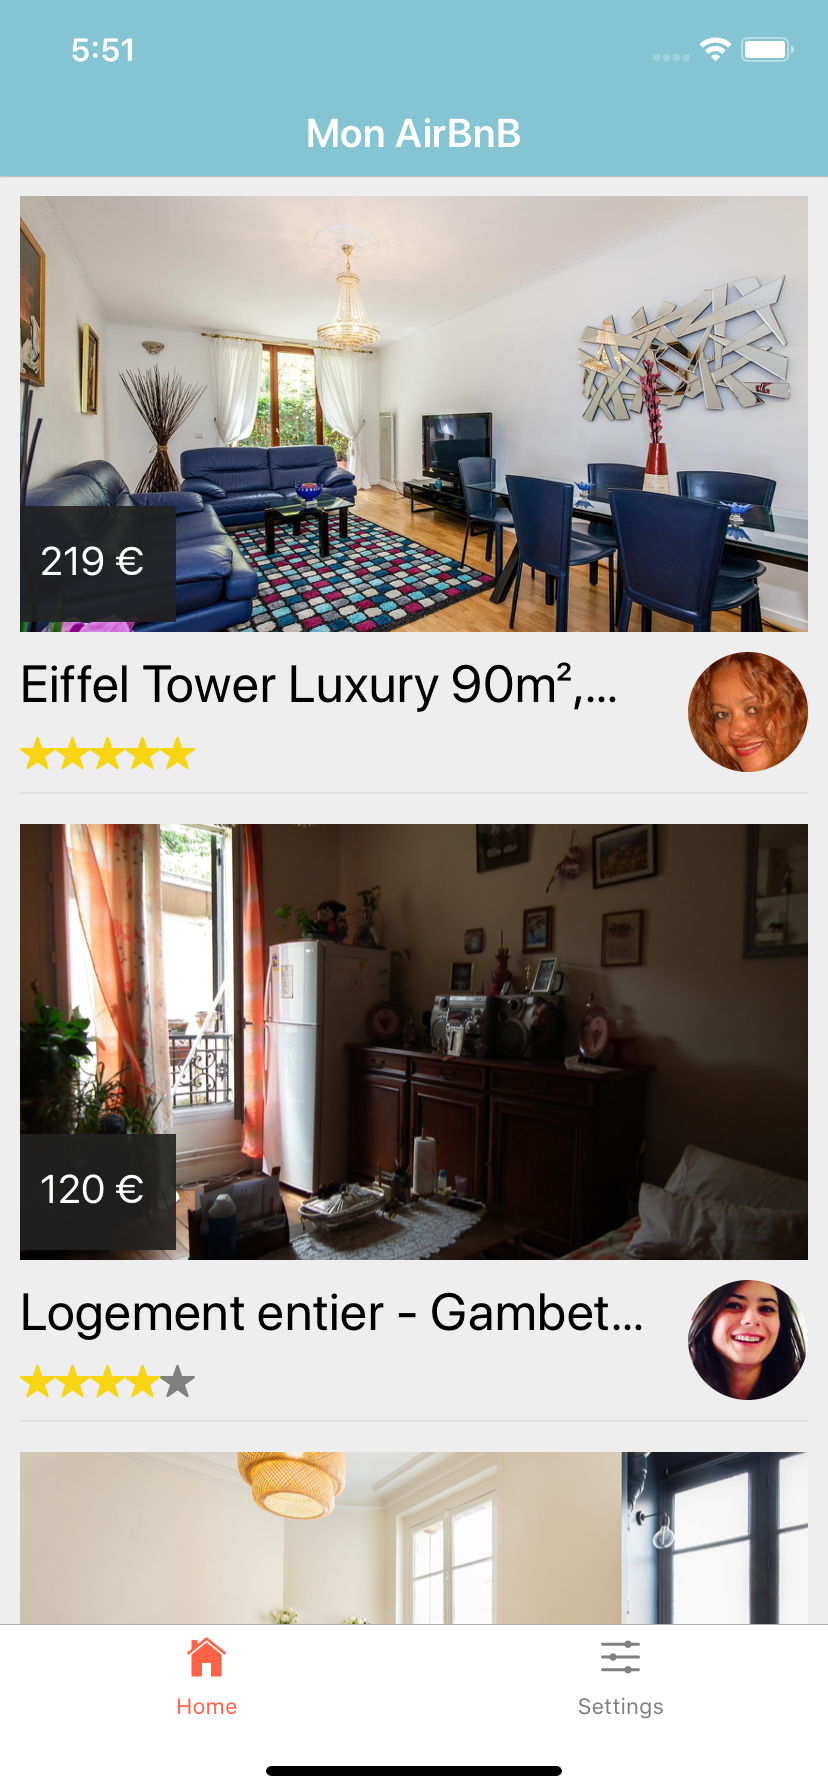
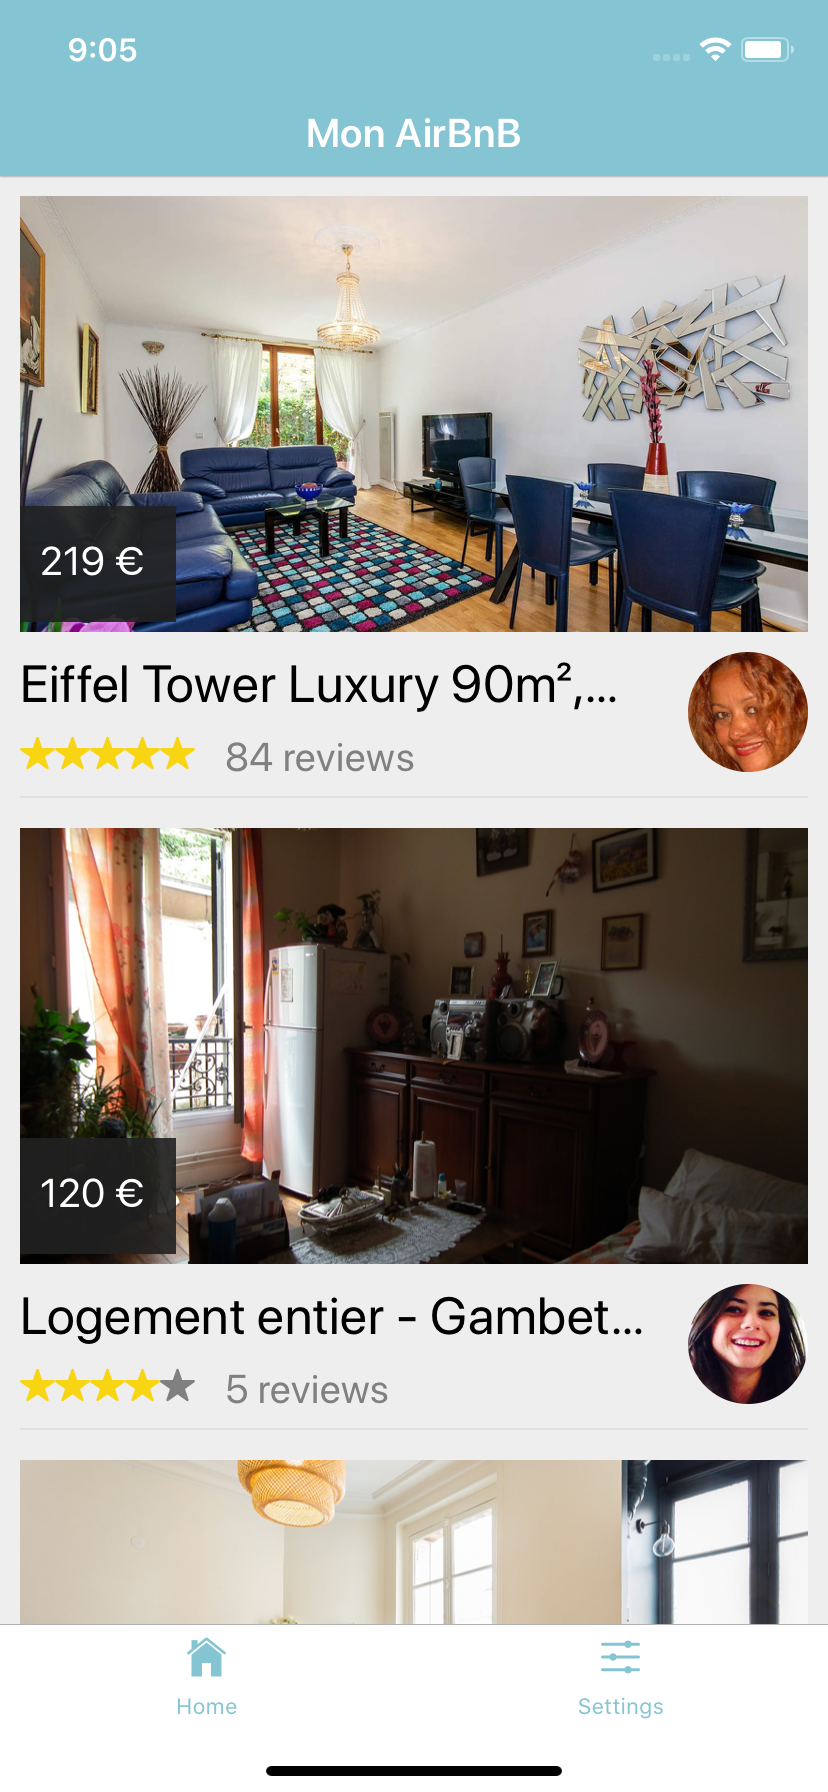
room page

diff --git a/containers/ListScreen.js b/containers/ListScreen.js
@@ -1,6 +1,6 @@
 import React, { useState, useEffect } from "react";
 import { useNavigation } from "@react-navigation/core";
-import { Button, Text, View, Image, StyleSheet } from "react-native";
+import { TouchableOpacity, Text, View, Image, StyleSheet } from "react-native";
 import { FlatList } from "react-native-gesture-handler";
 import axios from "axios";
 import { Ionicons } from "@expo/vector-icons";
@@ -22,6 +22,7 @@ export default function ListScreen() {
   useEffect(() => {
     fetchingData();
   }, []);
+
   return (
     <View>
       <FlatList
@@ -29,78 +30,84 @@ export default function ListScreen() {
         keyExtractor={item => String(item._id)}
         renderItem={({ item }) => (
           <View>
-            <View>
-              <Image
-                source={{ uri: item.photos[0] }}
-                style={styles.imageContainer}
-              />
-              <View style={styles.price}>
-                <Text
-                  style={{
-                    color: "white",
-                    fontSize: 20,
-                    paddingLeft: 10,
-                    paddingTop: 15
-                  }}
-                >
-                  {item.price} €
-                </Text>
-              </View>
-            </View>
-
-            <View style={styles.infoRoom}>
+            <TouchableOpacity
+              title="Got to room"
+              onPress={() => {
+                navigation.navigate("Room", { userId: item._id });
+              }}
+            >
               <View>
-                <Text
-                  numberOfLines={1}
-                  style={{
-                    fontSize: 26,
-                    width: 320,
-                    height: 40
-                  }}
-                >
-                  {item.title}
-                </Text>
-                <View style={{ flexDirection: "row" }}>
-                  <Ionicons
-                    name="ios-star"
-                    size={20}
-                    color={item.ratingValue > 0 ? "#f7d513" : "gray"}
-                  />
-                  <Ionicons
-                    name="ios-star"
-                    size={20}
-                    color={item.ratingValue > 1 ? "#f7d513" : "gray"}
-                  />
-                  <Ionicons
-                    name="ios-star"
-                    size={20}
-                    color={item.ratingValue > 2 ? "#f7d513" : "gray"}
-                  />
-                  <Ionicons
-                    name="ios-star"
-                    size={20}
-                    color={item.ratingValue > 3 ? "#f7d513" : "gray"}
-                  />
-                  <Ionicons
-                    name="ios-star"
-                    size={20}
-                    color={item.ratingValue > 4 ? "#f7d513" : "gray"}
-                  />
+                <Image
+                  source={{ uri: item.photos[0] }}
+                  style={styles.imageContainer}
+                />
+                <View style={styles.price}>
+                  <Text
+                    style={{
+                      color: "white",
+                      fontSize: 20,
+                      paddingLeft: 10,
+                      paddingTop: 15
+                    }}
+                  >
+                    {item.price} €
+                  </Text>
                 </View>
               </View>
-              <Image
-                source={{ uri: item.user.account.photos[0] }}
-                style={{ width: 60, height: 60, borderRadius: 30 }}
-              />
-            </View>
+
+              <View style={styles.infoRoom}>
+                <View>
+                  <Text
+                    numberOfLines={1}
+                    style={{
+                      fontSize: 26,
+                      width: 320,
+                      height: 40
+                    }}
+                  >
+                    {item.title}
+                  </Text>
+                  <View style={{ flexDirection: "row" }}>
+                    <Ionicons
+                      name="ios-star"
+                      size={20}
+                      color={item.ratingValue > 0 ? "#f7d513" : "gray"}
+                    />
+                    <Ionicons
+                      name="ios-star"
+                      size={20}
+                      color={item.ratingValue > 1 ? "#f7d513" : "gray"}
+                    />
+                    <Ionicons
+                      name="ios-star"
+                      size={20}
+                      color={item.ratingValue > 2 ? "#f7d513" : "gray"}
+                    />
+                    <Ionicons
+                      name="ios-star"
+                      size={20}
+                      color={item.ratingValue > 3 ? "#f7d513" : "gray"}
+                    />
+                    <Ionicons
+                      name="ios-star"
+                      size={20}
+                      color={item.ratingValue > 4 ? "#f7d513" : "gray"}
+                    />
+                    <Text
+                      style={{ color: "gray", fontSize: 20, marginLeft: 15 }}
+                    >
+                      {item.reviews} reviews
+                    </Text>
+                  </View>
+                </View>
+                <Image
+                  source={{ uri: item.user.account.photos[0] }}
+                  style={{ width: 60, height: 60, borderRadius: 30 }}
+                />
+              </View>
+            </TouchableOpacity>
           </View>
         )}
-      />
-      <Button
-        title="Go to Profile"
-        onPress={() => {
-          navigation.navigate("Profile", { userId: 123 });
-        }}
       />
     </View>
   );

diff --git a/containers/RoomScreen.js b/containers/RoomScreen.js
@@ -1,0 +1,170 @@
+import React, { useEffect, useState } from "react";
+import { useRoute } from "@react-navigation/core";
+import { Text, View, Image, FlatList, StyleSheet } from "react-native";
+import axios from "axios";
+import { Ionicons } from "@expo/vector-icons";
+import Swiper from "react-native-swiper";
+
+export default function RoomScreen() {
+  const { params } = useRoute();
+  const [data, setData] = useState({});
+  const [photos, setPhotos] = useState([]);
+
+  const fetchingData = async () => {
+    try {
+      let url = "https://airbnb-api.now.sh/api/room/" + params.userId;
+      const res = await axios.get(url);
+      setData(res.data);
+      setPhotos(res.data.photos);
+      console.log(res.data.photos);
+    } catch (e) {
+      alert(e.message);
+    }
+  };
+  useEffect(() => {
+    fetchingData();
+  }, []);
+
+  return (
+    <View>
+      <View>
+        {/* <Swiper style={styles.wrapper} loop={false}> */}
+        <FlatList
+          data={photos}
+          keyExtractor={(el, index) => el + index}
+          renderItem={el => {
+            let url = String(el.item);
+            return (
+              <View style={styles.slide}>
+                <Image
+                  style={styles.image}
+                  source={{ uri: url }}
+                  height={120}
+                />
+              </View>
+            );
+          }}
+        />
+        {/* </Swiper> */}
+        <View style={styles.price}>
+          <Text
+            style={{
+              color: "white",
+              fontSize: 20,
+              paddingLeft: 10,
+              paddingTop: 15
+            }}
+          >
+            {data.price} €
+          </Text>
+        </View>
+      </View>
+
+      <View style={styles.infoRoom}>
+        <View>
+          <Text
+            numberOfLines={1}
+            style={{
+              fontSize: 26,
+              width: 320,
+              height: 40
+            }}
+          >
+            {data.title}
+          </Text>
+          <View style={{ flexDirection: "row" }}>
+            <Ionicons
+              name="ios-star"
+              size={20}
+              color={data.ratingValue > 0 ? "#f7d513" : "gray"}
+            />
+            <Ionicons
+              name="ios-star"
+              size={20}
+              color={data.ratingValue > 1 ? "#f7d513" : "gray"}
+            />
+            <Ionicons
+              name="ios-star"
+              size={20}
+              color={data.ratingValue > 2 ? "#f7d513" : "gray"}
+            />
+            <Ionicons
+              name="ios-star"
+              size={20}
+              color={data.ratingValue > 3 ? "#f7d513" : "gray"}
+            />
+            <Ionicons
+              name="ios-star"
+              size={20}
+              color={data.ratingValue > 4 ? "#f7d513" : "gray"}
+            />
+            <Text style={{ color: "gray", fontSize: 20, marginLeft: 15 }}>
+              {data.reviews} reviews
+            </Text>
+          </View>
+        </View>
+      </View>
+      <Text
+        numberOfLines={3}
+        style={{
+          fontSize: 26,
+          width: 320,
+          marginHorizontal: 10
+        }}
+      >
+        {data.description}
+      </Text>
+    </View>
+  );
+}
+const styles = StyleSheet.create({
+  imageContainer: {
+    position: "relative",
+    marginHorizontal: 10,
+    marginVertical: 10,
+    height: 218
+  },
+  price: {
+    position: "absolute",
+    marginHorizontal: 10,
+    marginVertical: 10,
+    width: 78,
+    height: 58,
+    bottom: 5,
+    backgroundColor: "rgba(33, 33, 33, 0.9)"
+  },
+  infoRoom: {
+    color: "#251B12",
+    marginHorizontal: 10,
+    flexDirection: "row",
+    justifyContent: "space-between",
+    borderBottomColor: "#e0e0e0",
+    borderBottomWidth: 1,
+    paddingBottom: 8,
+    marginBottom: 5
+  },
+  wrapper: {},
+
+  slide: {
+    flex: 1,
+    justifyContent: "center",
+    backgroundColor: "transparent"
+  },
+  image: {
+    width: 200,
+    height: 100,
+    flex: 1,
+    backgroundColor: "transparent"
+  },
+
+  loadingView: {
+    position: "absolute",
+    justifyContent: "center",
+    alignItems: "center",
+    left: 0,
+    right: 0,
+    top: 0,
+    bottom: 0,
+    backgroundColor: "rgba(0,0,0,.5)"
+  }
+});

diff --git a/App.js b/App.js
@@ -5,7 +5,7 @@ import { createStackNavigator } from "@react-navigation/stack";
 import { createBottomTabNavigator } from "@react-navigation/bottom-tabs";
 import { Ionicons } from "@expo/vector-icons";
 import ListScreen from "./containers/ListScreen";
-import ProfileScreen from "./containers/ProfileScreen";
+import RoomScreen from "./containers/RoomScreen";
 import SignInScreen from "./containers/SignInScreen";
 import SettingsScreen from "./containers/SettingsScreen";
 
@@ -70,9 +70,13 @@ export default function App() {
                     title: route.name === "undefined" ? "Home" : route.name
                   };
                 }}
+                // Setting up bottom navigation bar colors
                 tabBarOptions={{
-                  activeTintColor: "tomato",
-                  inactiveTintColor: "gray"
+                  activeTintColor: "#85C5D3",
+                  inactiveTintColor: "gray",
+                  style: {
+                    backgroundColor: "white"
+                  }
                 }}
               >
                 <Tab.Screen>
@@ -95,10 +99,12 @@ export default function App() {
                       </Stack.Screen>
 
                       <Stack.Screen
-                        name="Profile"
-                        options={{ title: "User Profile" }}
+                        name="Room"
+                        options={{
+                          title: "Room"
+                        }}
                       >
-                        {() => <ProfileScreen />}
+                        {() => <RoomScreen />}
                       </Stack.Screen>
                     </Stack.Navigator>
                   )}
